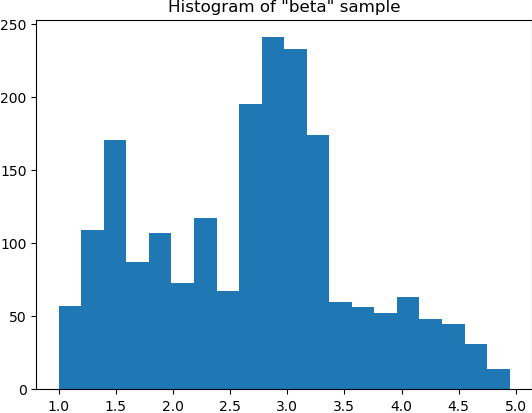
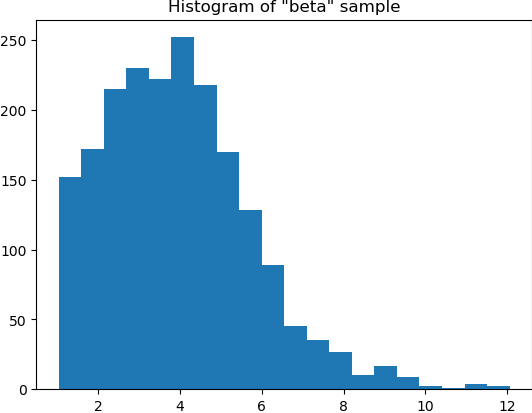
Changed plot for problem 2.

diff --git a/Tarea_7/metropolis_hastings.py b/Tarea_7/metropolis_hastings.py
@@ -24,11 +24,11 @@ parser.add_argument('--log-interval', '--li',
 args = parser.parse_args()
 
 
-def print_rejection_statistics(sample, rejected):
+def print_rejection_statistics(sample, count_rejected):
     # All rejections
-    perc = 100 * len(rejected) / len(sample)
+    perc = 100 * count_rejected / len(sample)
     print('All : Sampled {} : Rejected {}: Rej. Percent {:.2f} %'
-          .format(len(sample), len(rejected), perc))
+          .format(len(sample), count_rejected, perc))
 
 
 def plot_individual_hist(sample, name, params=['alpha', 'beta']):
@@ -40,15 +40,21 @@ def plot_individual_hist(sample, name, params=['alpha', 'beta']):
         # Hist sample
         smp = np.array([elem[1][idx] for elem in sample])
 
-        plt.hist(smp, bins=20)
+        plt.hist(smp, bins=20, alpha=.6, density=True)
         plt.title('Histogram of "{}" sample'.format(params[idx]))
+        plt.axvline(x=3.7, color='green', linestyle='--',
+                    label='real alpha')
+        x = np.linspace(0, 12, 100)
+        y = stats.gamma.pdf(x, 3.7, scale=1)
+        plt.plot(x, y, color='r', linestyle='--', label='real density')
+        plt.legend(loc='best')
         plt.savefig('{}_{}.png'.format(name, params[idx]),
                     bbox_inches='tight', pad_inches=0)
         plt.show()
 
 
 def plot_individual_walk_mean(walk, burn_in, name,
-                              params=['a', 'b', 'c']):
+                              params=['alpha', 'beta']):
     # Number of parameters
     n = len(walk[0][1])
 
@@ -67,6 +73,8 @@ def plot_individual_walk_mean(walk, burn_in, name,
 
         # Format plot
         plt.axvline(x=burn_in, color='r', label='Burn-in')
+        plt.axhline(y=3.7, color='green', linestyle='--',
+                    label='real alpha')
         plt.legend(loc='upper right')
         plt.savefig('{}_{}.png'.format(name, params[idx]),
                     bbox_inches='tight', pad_inches=0)
@@ -77,7 +85,7 @@ def plot_individual_walk_mean(walk, burn_in, name,
 
 
 def plot_individual_walk(walk, rejected, burn_in,
-                         name, params=['a', 'b', 'c']):
+                         name, params=['alpha', 'beta']):
     # Number of parameters
     n = len(walk[0][1])
 
@@ -98,13 +106,15 @@ def plot_individual_walk(walk, rejected, burn_in,
 
         # Format plot
         plt.axvline(x=burn_in, color='r', label='Burn-in')
+        plt.axhline(y=3.7, color='green', linestyle='--',
+                    label='real alpha')
         plt.legend(loc='best')
         plt.savefig('{}_{}.png'.format(name, params[idx]),
                     bbox_inches='tight', pad_inches=0)
         plt.show()
 
 
-def plot_walk(walk, rejected, posterior, name):
+def plot_walk(walk, rejected, posterior, name, params=['alpha', 'beta']):
     # Plot walk
     X_wlk = [elem[0] for elem in walk]
     Y_wlk = [elem[1] for elem in walk]
@@ -140,6 +150,8 @@ def plot_walk(walk, rejected, posterior, name):
 
     # Plot contour map
     plt.contour(X, Y, Z, 20, cmap='RdGy')
+    plt.xlabel(params[0])
+    plt.ylabel(params[1])
     plt.savefig(name, bbox_inches='tight', pad_inches=0)
     plt.show()
 
@@ -207,6 +219,9 @@ def metropolis_hastings(sample_size,
     # Init Burn-in count
     burnt = 0
 
+    # Counting statistics
+    count_rejected = 0
+
     # Sample until desired number
     while len(sample) < sample_size:
         # Save random walk
@@ -227,8 +242,9 @@ def metropolis_hastings(sample_size,
             x_t = x_p
 
         else:  # Reject
+            rejected.append((t, x_p))
             if burnt == args.burn_in:
-                rejected.append(x_p)
+                count_rejected += 1
 
         if burnt == args.burn_in:  # Sample stage
             sample.append(x_t)
@@ -246,7 +262,7 @@ def metropolis_hastings(sample_size,
         t += 1
 
     # Rejection statistics
-    print_rejection_statistics(sample, rejected)
+    print_rejection_statistics(sample, count_rejected)
 
     return (sample, walk, rejected)
 
@@ -255,8 +271,8 @@ def sample_from_problem_1(n):
     # Parametros de distribuciones
     alpha = 3
     beta = 100
-    sigma_1 = .1
-    sigma_2 = .1
+    sigma_1 = args.sigma
+    sigma_2 = args.sigma * 10
 
     # Simulate from gamma(alpha = 3, beta = 100)
     gamma_sample = stats.gamma.rvs(alpha, scale=1.0 / beta, size=n)
@@ -321,10 +337,13 @@ def sample_from_problem_1(n):
     plot_sample(sample, posterior, name)
     name = 'imgs/walk_prob1_s={}_b={}_n={}.png'\
            .format(args.sample_size, args.burn_in, n)
-    plot_walk(sample, rejected, posterior, name)
+    plot_walk(sample, [elem[1] for elem in rejected], posterior, name)
     name = 'imgs/burn-in_prob1_s={}_b={}_n={}'\
            .format(args.sample_size, args.burn_in, n)
     plot_individual_walk_mean(list(enumerate(walk)), args.burn_in, name)
+    name = 'imgs/walk_prob1_s={}_b={}_n={}'\
+           .format(args.sample_size, args.burn_in, n)
+    plot_individual_walk(list(enumerate(walk)), rejected, args.burn_in, name)
     name = 'imgs/hist_prob1_s={}_b={}_n={}'\
            .format(args.sample_size, args.burn_in, n)
     plot_individual_hist(list(enumerate(sample)), name)
@@ -332,47 +351,34 @@ def sample_from_problem_1(n):
     return sample
 
 
-def sample_from_problem_2():
+def sample_from_problem_2(x_init):
     # Posterior to sample with metropolis hastings
-    alpha = 3
+    alpha = 3.7
 
     def posterior(x):
-        t, x_t = x
-        return stats.gamma.pdf(x_t, alpha, scale=1)
+        return stats.gamma.pdf(x, alpha, scale=1)
 
     def log_posterior(x):
-        t, x_t = x
-        return stats.gamma.logpdf(x_t, alpha, scale=1)
+        return stats.gamma.logpdf(x, alpha, scale=1)
 
     # Normal proposal
     def proposal(x, x_prime):
-        t, x_t = x
-        t_p, x_t_p = x_prime
-
-        interger_part = math.modf(x_t)[1]
+        interger_part = math.modf(x)[1]
         if interger_part < 1.0:
             return 0
 
-        return stats.gamma.pdf(x_t_p, interger_part, scale=1)
+        return stats.gamma.pdf(x_prime, interger_part, scale=1)
 
     def log_proposal(x, x_prime):
-        t, x_t = x
-        t_p, x_t_p = x_prime
-
-        interger_part = math.modf(x_t)[1]
+        interger_part = math.modf(x)[1]
         if interger_part < 1.0:
             return -np.inf
 
-        return stats.gamma.logpdf(x_t_p, interger_part, scale=1)
+        return stats.gamma.logpdf(x_prime, interger_part, scale=1)
 
     def step(x):
-        t, x_t = x
-
-        interger_part = math.modf(x_t)[1]
+        interger_part = math.modf(x)[1]
         return stats.gamma.rvs(interger_part, scale=1)
-
-    # Intial value for Metropolis-Hastings
-    x_init = (1, 1000)
 
     # Sample using Metropolis-Hastings
     (sample, walk, rejected) = metropolis_hastings(args.sample_size,
@@ -381,17 +387,22 @@ def sample_from_problem_2():
                                                    log_proposal,
                                                    step)
 
+    sample = [(elem,) for elem in sample]
+    walk = [(elem,) for elem in walk]
+    rejected = [(elem[0], (elem[1],)) for elem in rejected]
+
     # Plot sample
-    name = 'imgs/sample_prob2_s={}_b={}.png'\
+    name = 'imgs/burn-in_prob2_s={}_b={}'\
            .format(args.sample_size, args.burn_in)
-    plot_sample(sample, posterior, name)
-    # name = 'imgs/walk_prob2_s={}_b={}.png'\
-    #        .format(args.sample_size, args.burn_in)
-    # plot_walk(sample, rejected, posterior, name)
-    name = 'imgs/burn-in_prob2_s={}_b={}.png'\
+    plot_individual_walk_mean(list(enumerate(walk)),
+                              args.burn_in, name)
+    name = 'imgs/walk_prob2_s={}_b={}'\
            .format(args.sample_size, args.burn_in)
-    plot_individual_walk_mean(list(enumerate(walk)), name)
-    plot_individual_hist(list(enumerate(sample)), '')
+    plot_individual_walk(list(enumerate(walk)),
+                         rejected, args.burn_in, name)
+    name = 'imgs/hist_prob2_s={}_b={}'\
+           .format(args.sample_size, args.burn_in)
+    plot_individual_hist(list(enumerate(sample)), name)
 
     return sample
 
@@ -459,11 +470,12 @@ def main():
     np.set_printoptions(formatter={'float': lambda x: "{0:0.3f}".format(x)})
 
     # Excercise - 1
-    sample_from_problem_1(n=3)
-    sample_from_problem_1(n=30)
+    # sample_from_problem_1(n=3)
+    # sample_from_problem_1(n=30)
 
     # Excercise - 2
-    # sample_from_problem_2()
+    sample_from_problem_2(x_init=np.random.uniform(3, 4))
+    sample_from_problem_2(x_init=1000)
 
     # Excercise - 3
     # sample_from_problem_3()
